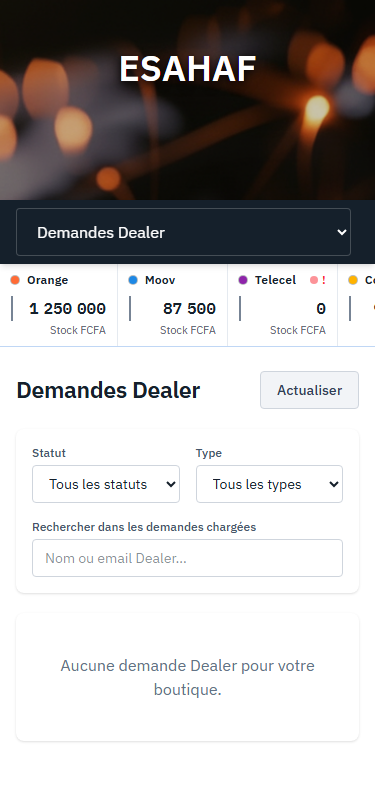
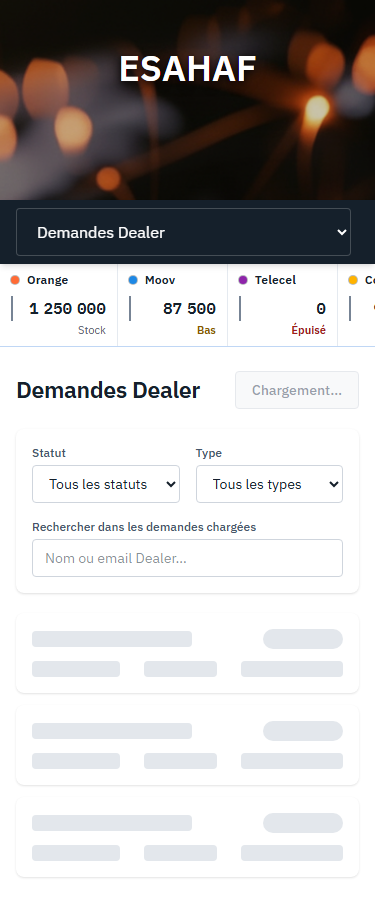
feat(design): L7.4d — chaque reserve dit son etat, et la couleur ne fait que le redire
CHANGEMENT DECLARE : une information nouvelle apparait a l'ecran. Elle repose sur
la regle et le seuil poses au lot L7.4a, et sur le fond mesurable obtenu au lot
L7.4c — ces trois-la ne pouvaient pas etre un seul commit.

LE DEFAUT, ET C'EST LE PREMIER DES QUATRE NON-NEGOCIABLES

Un stock epuise n'etait signale que par une pastille rouge et le caractere « ! ».
Un lecteur d'ecran annoncait « point d'exclamation ». Un daltonien ne voyait
qu'une ponctuation. Et en plein soleil, sur un telephone d'entree de gamme — le
contexte d'usage reel — un petit rouge sur un pastel ne se voit pas du tout.
La couleur portait seule l'information (DESIGN.md §5).

Desormais : « Stock », « Bas », « Epuise », ecrits. Le « ! » disparait la ou le
mot existe — les garder tous les deux ferait deux signaux pour un seul etat.

L'ETAT REMPLACE L'UNITE, IL NE S'Y AJOUTE PAS

« Stock FCFA » devient « Stock ». Deux lignes sous un montant, dans une bande qui
en montre sept, c'est la moitie de la hauteur pour une information que personne
ne relit : tout est en FCFA dans ce produit. L'unite n'est pas perdue — elle est
dite UNE fois, dans le nom accessible de la bande (« Soldes par reseau, en FCFA,
defilement horizontal »), au lieu de sept fois sous sept montants. C'est aussi ce
que fait la maquette.

L'ETAT COURANT N'EST PAS COLORE, ET C'EST DELIBERE

Sur sept reserves, six sont normales un jour ordinaire. Les colorer toutes ferait
[…]

diff --git a/tests/components/tc-163-filet-bande-des-reserves.test.jsx b/tests/components/tc-163-filet-bande-des-reserves.test.jsx
@@ -13,11 +13,12 @@
  * Aucune assertion sur une classe CSS : sur le texte visible, les rôles, les
  * noms accessibles et les montants rendus.
  *
- * UN DÉFAUT EST FIGÉ TEL QUEL (⚠ DÉFAUT FIGÉ) : l'épuisement d'un stock est
- * annoncé par une couleur et un point d'exclamation, sans aucun mot. C'est une
- * violation de DESIGN.md §5 (« aucune couleur ne porte seule une information »),
- * et le premier non-négociable du brief. Il est gelé ici pour qu'on puisse
- * prouver plus tard qu'il a été corrigé et non déplacé.
+ * LE DÉFAUT QUI ÉTAIT FIGÉ ICI A ÉTÉ CORRIGÉ (lot L7.4d). L'épuisement d'un
+ * stock n'était annoncé que par une couleur et un point d'exclamation : un
+ * lecteur d'écran annonçait « point d'exclamation », un daltonien ne voyait
+ * qu'une ponctuation. Les cas qui le figeaient exigent désormais le MOT, et
+ * nomment ce qu'ils remplacent — c'est ce qui prouve qu'il a été corrigé et non
+ * déplacé (METHODE §2, A.1).
  *
  * Les deux clients empruntent DEUX CHEMINS DE CODE DIFFÉRENTS — rideau
  * repliable en multi-réseaux, barre compacte en mono-réseau — et les deux sont
@@ -55,20 +56,27 @@ const SOLDES = {
  */
 const normaliser = (texte) => texte.replace(/\s+/g, ' ').trim()
 
-/** Profil factice dérivé du pilote — cf. la note de TC-162. */
-function profil({ reseaux, designSystem }) {
+/**
+ * Profil factice dérivé du pilote — cf. la note de TC-162.
+ *
+ * ⚠ `seuilStockBas` est une PROPRIÉTÉ DU PROFIL, pas une constante du test. Un
+ * profil qui ne la déclare pas n'affiche aucun mot d'état (contrat du lot
+ * L7.4a), et c'est ce qui permet de couvrir les deux cas dans le même fichier :
+ * une boutique qui a fixé son seuil, et une qui ne l'a pas fait.
+ */
+function profil({ reseaux, designSystem, seuilStockBas }) {
   return {
     ...pilotProfile,
     id: 'profil-de-test',
     branding: { appName: 'ESAHAF', pwaName: 'ESAHAF', theme: 'orange' },
     design: { system: designSystem ?? 'legacy' },
-    networks: { enabled: reseaux },
+    networks: { enabled: reseaux, seuilStockBas },
   }
 }
 
-function poserLesMocks({ reseaux, designSystem }) {
+function poserLesMocks({ reseaux, designSystem, seuilStockBas }) {
   vi.doMock('../../src/config/activeClientProfile.js', () => ({
-    activeProfile: profil({ reseaux, designSystem }),
+    activeProfile: profil({ reseaux, designSystem, seuilStockBas }),
   }))
   vi.doMock('../../src/config/firebase', () => ({
     auth: {},
@@ -110,8 +118,14 @@ async function monterLeRail(options, proprietes) {
   render(<StickyBalanceRail top={64} {...proprietes} />)
 }
 
-const ESAHAF = { reseaux: RESEAUX_ESAHAF, designSystem: 'registre' }
+// Le seuil réel du client, fixé le 2026-09-16 (config/clients/salawu.js).
+const SEUIL = 100_000
+
+const ESAHAF = { reseaux: RESEAUX_ESAHAF, designSystem: 'registre', seuilStockBas: SEUIL }
 const TAOFIC = { reseaux: ['Orange'] }
+
+/** Une boutique multi-réseaux qui n'a PAS fixé de seuil. Pas de mot d'état. */
+const SANS_SEUIL = { reseaux: RESEAUX_ESAHAF, designSystem: 'registre' }
 
 beforeEach(() => {
   vi.resetModules()
@@ -144,11 +158,50 @@ describe('TC-163 — la bande des réserves (ESAHAF, multi-réseaux)', () => {
     expect(textes.some((t) => t === '12 300')).toBe(true)
   })
 
-  it('distingue le stock d\'un réseau de la liquidité de la caisse', async () => {
+  it('⟲ RETOURNÉ AU LOT L7.4d — la ligne du bas dit l\'ÉTAT, plus l\'unité', async () => {
+    // Ce cas exigeait « Stock FCFA » six fois. Cette ligne portait l'unité —
+    // une information que tout le produit partage et que personne ne relit —
+    // là où il fallait dire ce que vaut la réserve. Elle porte désormais l'état.
+    //
+    // L'unité n'est pas perdue : elle est dite UNE fois, dans le nom accessible
+    // de la bande, au lieu de sept fois sous sept montants.
     await monterLeRideau(ESAHAF)
 
-    expect(screen.getAllByText('Stock FCFA').length).toBe(6)
+    expect(screen.queryByText('Stock FCFA')).toBeNull()
+
+    const bande = screen.getByRole('region', { name: /soldes par reseau/i })
+    expect(bande.getAttribute('aria-label')).toMatch(/en FCFA/i)
+
+    // La caisse n'a pas d'état : ce n'est pas un stock qu'on épuise, et lui
+    // coller « Bas » ferait croire à une rupture d'approvisionnement.
     expect(screen.getAllByText('Liquidité FCFA')).toHaveLength(1)
+  })
+
+  it('⟲ RETOURNÉ AU LOT L7.4d — chaque réserve dit son état, du bon côté du seuil', async () => {
+    // Les montants du banc encadrent délibérément le seuil de 100 000 :
+    //   1 250 000 · 875 500 · 640 000  →  Stock
+    //      98 750 ·  12 300            →  Bas     (sous le seuil, mais pas nul)
+    //           0                      →  Épuisé
+    // Wave à 98 750 est le cas qui compte : il est à 1 250 F du seuil, et c'est
+    // exactement là qu'une comparaison fautive se tromperait en silence.
+    await monterLeRideau(ESAHAF)
+
+    expect(screen.getAllByText('Stock')).toHaveLength(3)
+    expect(screen.getAllByText('Bas')).toHaveLength(2)
+    expect(screen.getAllByText('Épuisé')).toHaveLength(1)
+  })
+
+  it('sans seuil déclaré, aucune réserve n\'affiche d\'état', async () => {
+    // Le contrat du lot L7.4a, vérifié sur le RENDU et non sur la règle seule :
+    // aucun seuil n'est inventé par défaut. C'est ce qui garantit qu'un profil
+    // que ce chantier ne touche pas ne voit rien apparaître.
+    await monterLeRideau(SANS_SEUIL)
+
+    expect(screen.queryByText('Stock')).toBeNull()
+    expect(screen.queryByText('Bas')).toBeNull()
+    expect(screen.queryByText('Épuisé')).toBeNull()
+    // Et il garde son libellé d'origine, strictement inchangé.
+    expect(screen.getAllByText('Stock FCFA')).toHaveLength(6)
   })
 
   it('⟲ RETOURNÉ AU LOT L7.4b — la bande ne se replie plus, et n\'a plus de bouton', async () => {
@@ -192,22 +245,35 @@ describe('TC-163 — la bande des réserves (ESAHAF, multi-réseaux)', () => {
     expect(bande).toHaveAttribute('tabindex', '0')
   })
 
-  it('⚠ DÉFAUT FIGÉ — un stock épuisé n\'est annoncé par AUCUN mot', async () => {
-    // État actuel : `NetworkBalanceCard` signale `stock <= 0` par une pastille
-    // rouge et le caractère « ! ». Ni le mot « Épuisé », ni nom accessible : un
-    // lecteur d'écran annonce « point d'exclamation », et un daltonien ne voit
-    // qu'une ponctuation. La couleur porte seule l'information — DESIGN.md §5,
-    // et le premier des quatre points sur lesquels le brief ne cède pas.
+  it('⟲ RETOURNÉ AU LOT L7.4d — un stock épuisé est annoncé PAR UN MOT', async () => {
+    // Ce cas figeait le défaut inverse, et c'était le premier des quatre points
+    // sur lesquels le brief ne cède pas : `stock <= 0` n'était signalé que par
+    // une pastille rouge et le caractère « ! ». Un lecteur d'écran annonçait
+    // « point d'exclamation » ; un daltonien ne voyait qu'une ponctuation. La
+    // couleur portait seule l'information (DESIGN.md §5).
     //
-    // ⟲ À RETOURNER AU LOT L7.4 : le palier s'écrira en toutes lettres, et cette
-    // assertion exigera le mot au lieu de constater son absence.
+    // Le « ! » disparaît là où le mot existe — les garder tous les deux ferait
+    // deux signaux pour un seul état.
     await monterLeRideau(ESAHAF)
 
-    // Coris est à 0 : l'indicateur existe…
-    expect(screen.getByText('!')).toBeInTheDocument()
-    // …et aucun mot ne le double, sur toute la bande.
-    expect(screen.queryByText(/épuisé/i)).toBeNull()
-    expect(screen.queryByText(/\bbas\b/i)).toBeNull()
+    // Coris est à 0.
+    expect(screen.getByText('Épuisé')).toBeInTheDocument()
+    expect(screen.queryByText('!')).toBeNull()
+  })
+
+  it('le mot tient seul : retirer toute couleur ne retire aucune information', async () => {
+    // Le critère du non-négociable, éprouvé plutôt qu'affirmé. On relève ce que
+    // la bande DIT, sans lire une seule couleur : si les trois états s'y
+    // distinguent, alors la couleur ne fait que redire, et une feuille de style
+    // absente ne coûterait rien.
+    await monterLeRideau(ESAHAF)
+
+    const bande = screen.getByRole('region', { name: /soldes par reseau/i })
+    const dit = normaliser(bande.textContent)
+
+    expect(dit).toContain('Épuisé')
+    expect(dit).toContain('Bas')
+    expect(dit).toContain('Stock')
   })
 })
 

diff --git a/src/components/network/NetworkBalanceCard.jsx b/src/components/network/NetworkBalanceCard.jsx
@@ -1,5 +1,18 @@
 import { memo } from 'react'
 import { NETWORK_CONFIG, formatAmountWithCurrency } from '../../constants/networkConfig'
+import { activeProfile } from '../../config/activeClientProfile.js'
+import { etatDeLaReserve } from '../../utils/etatReserve.js'
+
+/**
+ * Seuil de stock bas, en FCFA, LU UNE FOIS depuis le profil client.
+ *
+ * Absent d'un profil → `etatDeLaReserve` rend `null`, donc aucun mot. Ce n'est
+ * pas un repli de circonstance, c'est le contrat posé au lot L7.4a : aucun seuil
+ * n'est inventé par défaut, parce qu'un seuil deviné se trompe pour toutes les
+ * boutiques sauf une. TAOFIC ne le déclare pas — et n'atteint de toute façon
+ * jamais ce composant (mono-réseau → `CompactBalanceBar`).
+ */
+const SEUIL_STOCK_BAS = activeProfile.networks.seuilStockBas
 
 /**
  * NetworkBalanceCard — une réserve de la bande (affichage seul) du côté boutique
@@ -28,8 +41,17 @@ function NetworkBalanceCard({ network, stockAmount, liquiditeAmount }) {
   const displayAmount = isLiquiditeCard ? liquiditeAmount : stockAmount
   const { amount, label } = formatAmountWithCurrency(displayAmount, isLiquiditeCard)
 
+  // L'état ne concerne QUE les réserves réseau. La carte « Liquidité » est la
+  // caisse, pas un stock qu'on épuise : lui coller « Bas » ferait croire à une
+  // rupture d'approvisionnement là où il n'y a qu'un fonds de caisse bas.
+  const etat = isLiquiditeCard ? null : etatDeLaReserve(stockAmount, SEUIL_STOCK_BAS)
+
+  // Repli pour un profil multi-réseaux qui ne déclare PAS de seuil : il garde
+  // l'indicateur d'origine, strictement inchangé. Sans cela, une configuration
+  // que ce lot ne touche pas par ailleurs PERDRAIT son seul signal de rupture.
+  // Là où le mot existe, il remplace ce « ! » — c'est tout l'objet du lot.
   const stockValue = stockAmount || 0
-  const isCritical = !isLiquiditeCard && stockValue <= 0
+  const isCritical = !etat && !isLiquiditeCard && stockValue <= 0
 
   return (
     <div
@@ -71,8 +93,26 @@ function NetworkBalanceCard({ network, stockAmount, liquiditeAmount }) {
         <div data-montant className={`font-bold text-lg ${config.text} mb-1`}>
           {amount}
         </div>
-        <span data-reserve-mention className={`text-xs ${config.textLight} font-medium`}>
-          {label}
+        {/* L'ÉTAT, ÉCRIT — et il REMPLACE le libellé d'unité, il ne s'y ajoute
+            pas. Deux lignes sous un montant, dans une bande qui en montre sept,
+            c'est la moitié de la hauteur pour une information qu'on ne relit
+            jamais : tout est en FCFA dans ce produit, et l'unité est portée par
+            le nom accessible de la bande.
+
+            `data-etat` est un FAIT — « cette réserve est épuisée » — et non une
+            consigne d'apparence : la couleur qui le redouble est posée en CSS,
+            sous `.design-registre`. Un profil sans cette identité lit donc le
+            mot à l'encre du texte, et n'a rien perdu.
+
+            Quand il n'y a pas d'état — la caisse, ou un profil sans seuil — le
+            libellé d'origine reste. C'est la même règle que partout : pas de
+            seuil, pas de mot, et rien d'autre ne change. */}
+        <span
+          data-reserve-mention
+          data-etat={etat ? etat.cle : undefined}
+          className={`text-xs ${config.textLight} font-medium`}
+        >
+          {etat ? etat.mot : label}
         </span>
       </div>
     </div>

diff --git a/src/index.css b/src/index.css
@@ -735,6 +735,32 @@ body {
   text-align: right;
 }
 
+/* L'ÉTAT D'UNE RÉSERVE — la couleur REDIT le mot, elle ne le remplace pas.
+   ───────────────────────────────────────────────────────────────────────────
+   Le mot est déjà écrit dans le composant (`etat.mot`) : « Stock », « Bas »,
+   « Épuisé ». Ces trois règles ne font que lui donner le poids qui correspond.
+   Retirez-les, et rien ne se perd — c'est exactement le critère du premier
+   non-négociable du chantier : aucune couleur ne porte seule une information.
+
+   `normal` n'est PAS mis en avant, et c'est délibéré : sur sept réserves, six
+   sont normales un jour ordinaire. Les colorer toutes ferait de l'exception une
+   couleur de plus au milieu de six autres. L'état courant reste au gris du
+   texte secondaire ; seuls les deux états qui DEMANDENT UN GESTE se détachent.
+
+   Contrastes mesurés par `npm run qa:jetons`, sur --papier :
+     --alerte #8a5a00 : 5,93:1     « Bas »    → pense à te réapprovisionner
+     --echec  #a01b1b : 7,87:1     « Épuisé » → tu ne peux plus servir ce réseau
+   Les deux dépassent le seuil AA de 4,5:1 exigé pour du texte de cette taille. */
+.design-registre [data-reserve] [data-etat='bas'] {
+  color: var(--color-alerte);
+  font-weight: 600;
+}
+
+.design-registre [data-reserve] [data-etat='epuise'] {
+  color: var(--color-echec);
+  font-weight: 600;
+}
+
 /* La pastille porte une couleur de TIERS (les 49 couleurs d'opérateur de
    networkConfig.js sont des DONNÉES, pas des jetons). Plusieurs sont claires —
    le jaune Coris #ffb300, le cyan Wave — et disparaissent sur du papier. Un

diff --git a/src/components/network/NetworkCardsDrawer.jsx b/src/components/network/NetworkCardsDrawer.jsx
@@ -166,11 +166,17 @@ function BandeDesReserves({ top = 0 }) {
         {/* Même exigence que partout ailleurs : une zone à défilement horizontal
             non focalisable rend ses derniers réseaux inatteignables au clavier
             (constat Q3, relevé à 375 px). */}
+        {/* ⚠ « en FCFA » dans le NOM ACCESSIBLE, parce que les réserves ont
+            cessé de l'écrire sur chaque carte : leur ligne du bas porte
+            désormais l'état (« Stock », « Bas », « Épuisé ») au lieu de
+            « Stock FCFA ». L'unité ne disparaît donc pas — elle est dite UNE
+            fois pour la bande entière, au lieu de sept fois sous sept montants.
+            C'est aussi ce que fait la maquette. */}
         <div
           data-reserve-piste
           tabIndex={0}
           role="region"
-          aria-label="Soldes par reseau, defilement horizontal"
+          aria-label="Soldes par reseau, en FCFA, defilement horizontal"
           className="flex gap-3 sm:gap-4 overflow-x-auto scrollbar-hide pb-2 justify-center"
         >
           {visibleCards.map(([network, data]) => (
